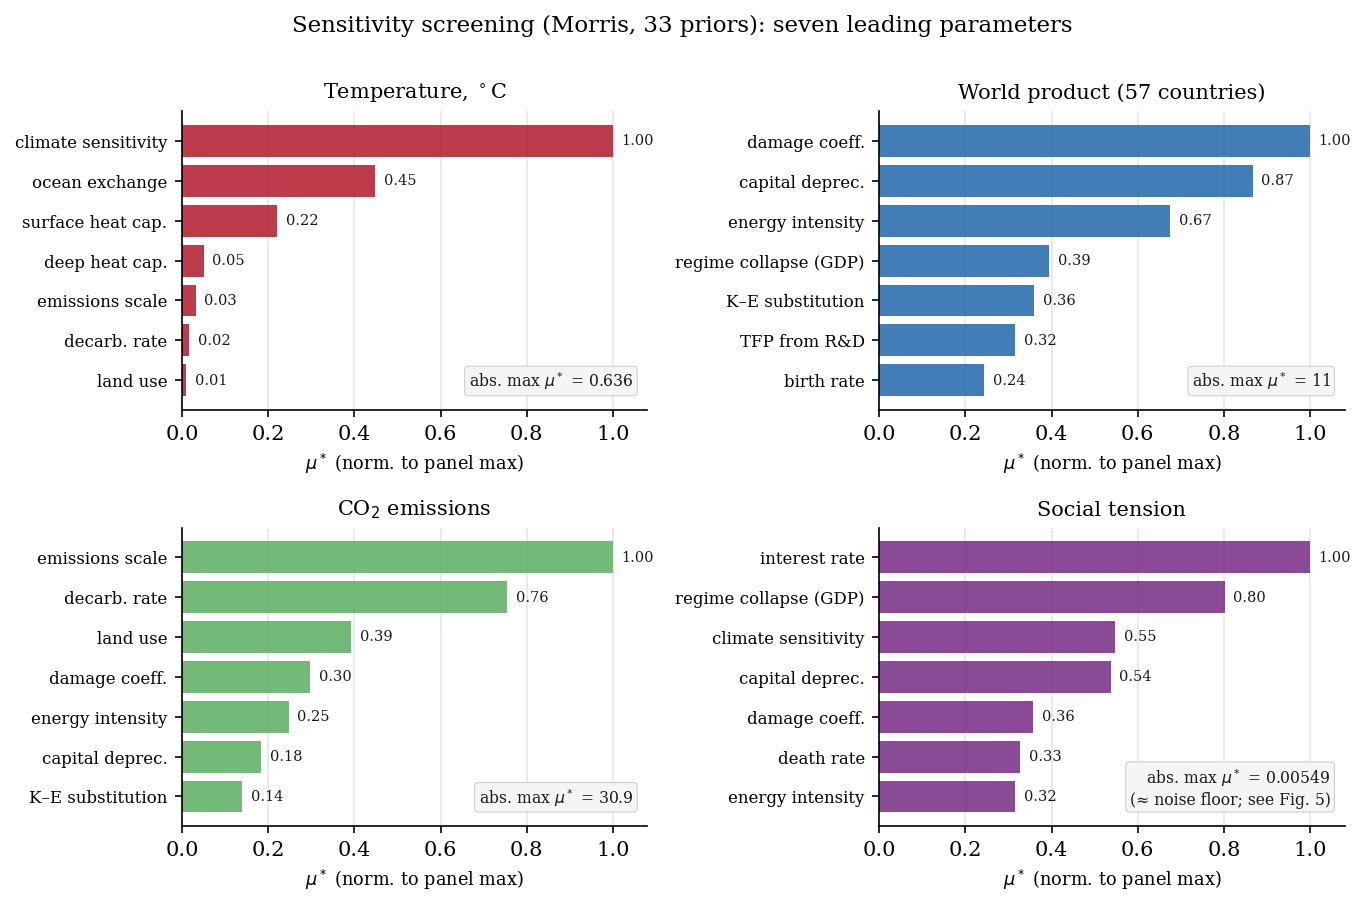
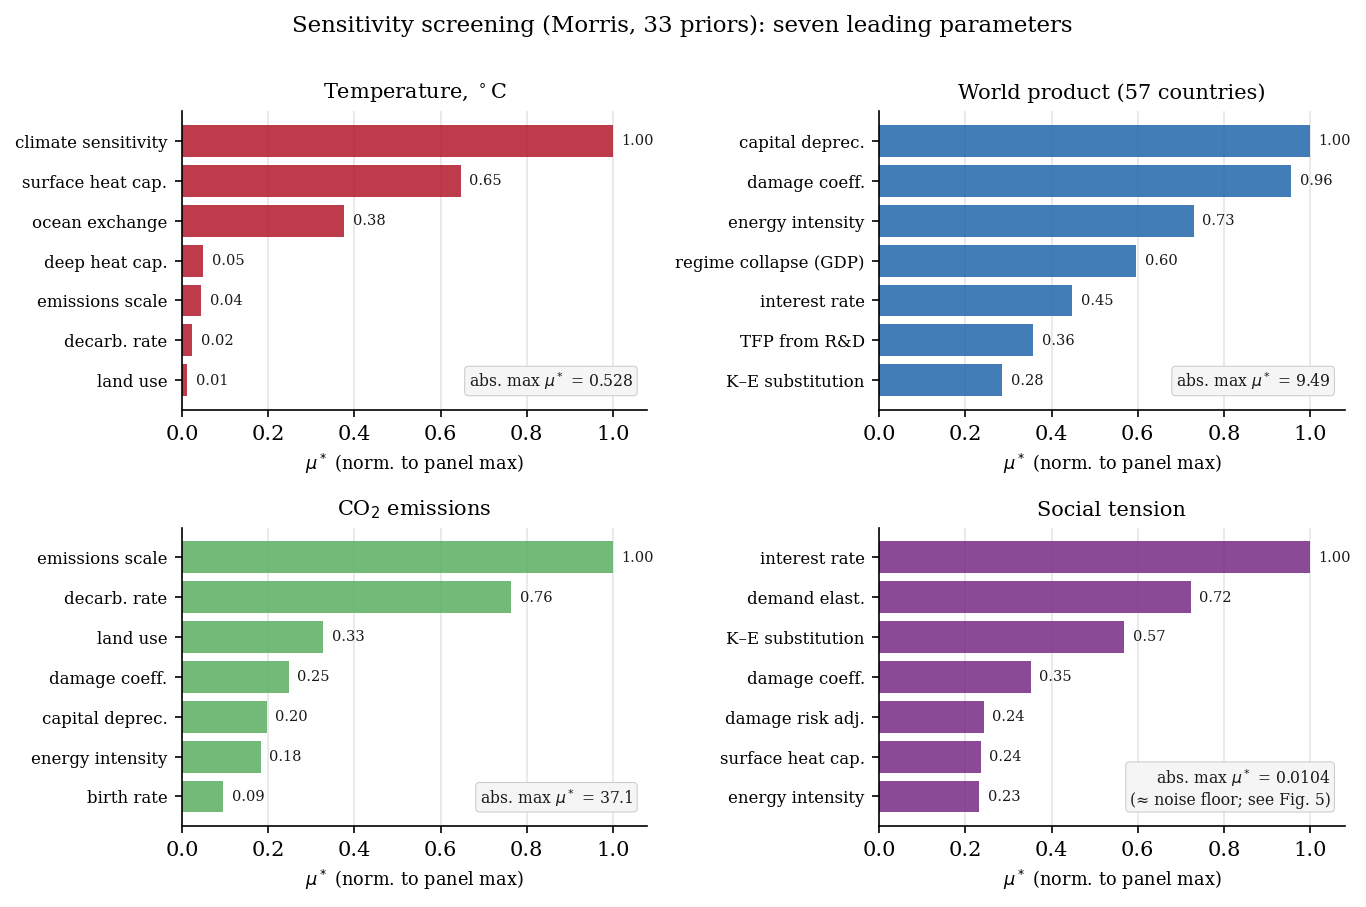
feat(gim2-app): canon-2023 data note on docs tab + refreshed validation figures

diff --git a/gim2/app/Resources/web/docs.html b/gim2/app/Resources/web/docs.html
@@ -189,8 +189,12 @@
   </div>
 
   <h2>Данные и источники</h2>
-  <p class="muted" style="margin-bottom:12px;max-width:820px">Состояние ~57 стран на базовый год собрано из публичных
-  рецензируемых наборов; калибровочные приоры взяты из литературы. Ниже — что лежит в модели и откуда.</p>
+  <p class="muted" style="margin-bottom:12px;max-width:820px">Все прогоны стартуют из единого
+  <b>валидированного канона на 2023&nbsp;год</b> — состояния 57 акторов (50 крупнейших экономик,
+  остаточные региональные агрегаты и Тайвань, вместе покрывающие практически весь мировой выпуск:
+  ВВП&nbsp;≈&nbsp;$107&nbsp;трлн, население&nbsp;≈&nbsp;8,06&nbsp;млрд, CO₂&nbsp;≈&nbsp;38&nbsp;Гт),
+  собранного из публичных рецензируемых наборов и сверенного с World&nbsp;Bank&nbsp;/&nbsp;UN&nbsp;/&nbsp;GCB;
+  калибровочные приоры взяты из литературы. Ниже — что лежит в модели и откуда.</p>
   <div class="panel" style="padding:4px 16px 8px">
     <table style="width:100%;border-collapse:collapse;font-size:12px">
       <thead>
